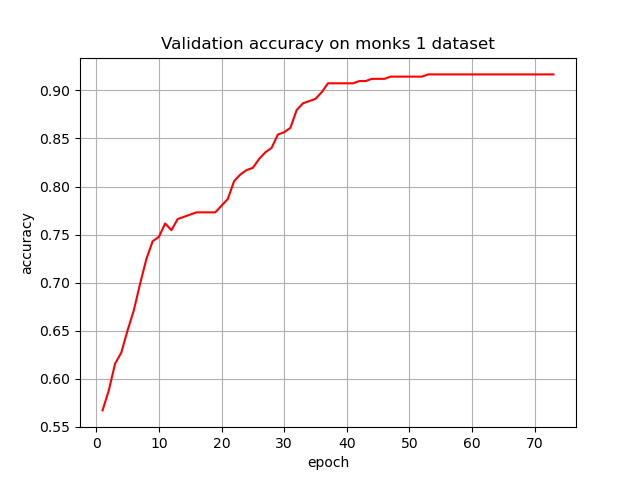
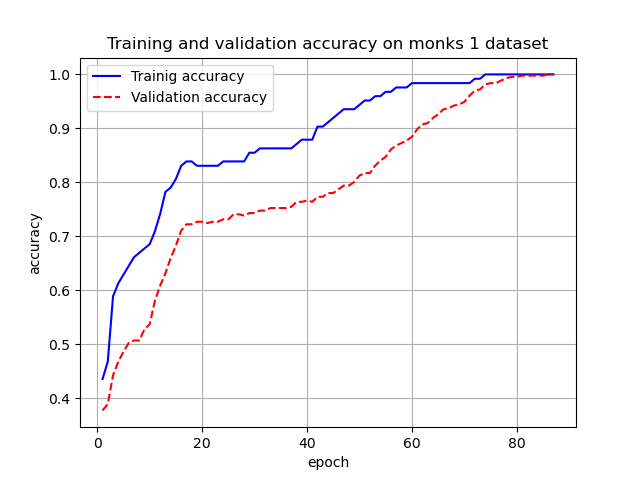
epochs_val_score e accuracy plt

diff --git a/network.py b/network.py
@@ -22,7 +22,8 @@ class Network:
         batch_size=1, 
         lambd=0.01, 
         alpha=0.5,
-        toll=0.0005
+        toll=0.0005,
+        epochs_val_score = 1
         ):
 
         self.layers = []
@@ -44,6 +45,7 @@ class Network:
         self.lambd = lambd
         self.alpha = alpha
         self.toll = toll
+        self.epochs_val_score = epochs_val_score # get validation score every epochs_val_score epochs
         # self.deltas_weights = None
         # self.deltas_bias = None
 
@@ -124,6 +126,7 @@ class Network:
 
         all_train_errors = []
         all_val_errors = []
+        tr_accuracy = []
         val_accuracy = []
 
         #####
@@ -179,12 +182,18 @@ class Network:
                     deltas_weights[layer.id].fill(0)
                     deltas_bias[layer.id].fill(0)
             
-            #-----validation-----
-            predict_val = self.predict(x_val)
-            predict_val = f_pred(predict_val)
-            val_error = self.loss(y_val, predict_val)
+            predict_tr = self.predict(x_train)
+            predict_tr = f_pred(predict_tr)
+            #TODO: reshaper y_train
+            tr_accuracy.append(accuracy_score(y_true=y_train, y_pred=predict_tr))
             
-            val_accuracy.append(accuracy_score(y_true=y_val, y_pred=predict_val))
+            #-----validation-----
+            if (epoch % self.epochs_val_score) == 0:
+                predict_val = self.predict(x_val)
+                predict_val = f_pred(predict_val)
+                val_error = self.loss(y_val, predict_val)
+            
+                val_accuracy.append(accuracy_score(y_true=y_val, y_pred=predict_val))
             
             #-----early stopping-----
             if epoch >= 10:              
@@ -215,4 +224,4 @@ class Network:
         #plt.plot(all_val_errors, color="green")
         #plt.show()
 
-        return all_train_errors, all_val_errors, val_accuracy
+        return all_train_errors, all_val_errors, val_accuracy, tr_accuracy

diff --git a/utils.py b/utils.py
@@ -1,5 +1,6 @@
 import numpy as np
 import matplotlib.pyplot as plt
+from math import floor
 
 #-----ACTIVATIONS----- 
 # activation functions and their derivatives
@@ -167,17 +168,22 @@ def error_plot(tr_error, val_error):
     plt.savefig(fig_name)
 
 
-def accuracy_plot(accuracy):
-    epochs = len(accuracy)
-    epoch_vector = np.linspace(1, epochs, epochs)
+def accuracy_plot(tr_accuracy, val_accuracy):
+    tr_epochs = len(tr_accuracy)
+    val_epochs = len(val_accuracy)
+    tr_epoch_vector = np.linspace(1, tr_epochs, tr_epochs)
+    val_epoch_vector = np.linspace(1, tr_epochs, val_epochs)
+    
     plt.figure()
-    plt.plot(epoch_vector, accuracy, "r",
-             linewidth=1.5)
-    #plt.legend()
+    plt.plot(tr_epoch_vector, tr_accuracy, "b",
+             label="Trainig accuracy", linewidth=1.5)
+    plt.plot(val_epoch_vector, val_accuracy, "r--",
+             label="Validation accuracy", linewidth=1.5)
+    plt.legend()
     plt.xlabel("epoch")
     plt.ylabel("accuracy")
     plt.grid()
-    plt.title("Validation accuracy on monks 1 dataset")
+    plt.title("Training and validation accuracy on monks 1 dataset")
     fig_name = "ml-project-AccuracyPlot"
     plt.savefig(fig_name)
     

diff --git a/monks.py b/monks.py
@@ -44,11 +44,11 @@ X_train, y_train = read_monks(TRAIN_PATH)
 X_test, y_test = read_monks(TEST_PATH)
 
 net = Network(activation_out='tanh', epochs= 300, batch_size=32, learning_rate_fun=linear_decay(200, 0.1))
-all_train_errors, all_val_errors, val_accuracy = net.fit(X_train, y_train, X_test, y_test)
+all_train_errors, all_val_errors, val_accuracy, tr_accuracy = net.fit(X_train, y_train, X_test, y_test)
 pred = net.predict(X_test)
 
 error_plot(all_train_errors, all_val_errors)
-accuracy_plot(val_accuracy)
+accuracy_plot(tr_accuracy, val_accuracy)
 
 # cross validation
 #tr_error, val_error, tr_error_fold, val_error_fold, pred = cross_validation(X_train, y_train, X_test, k=25, epochs=300)
